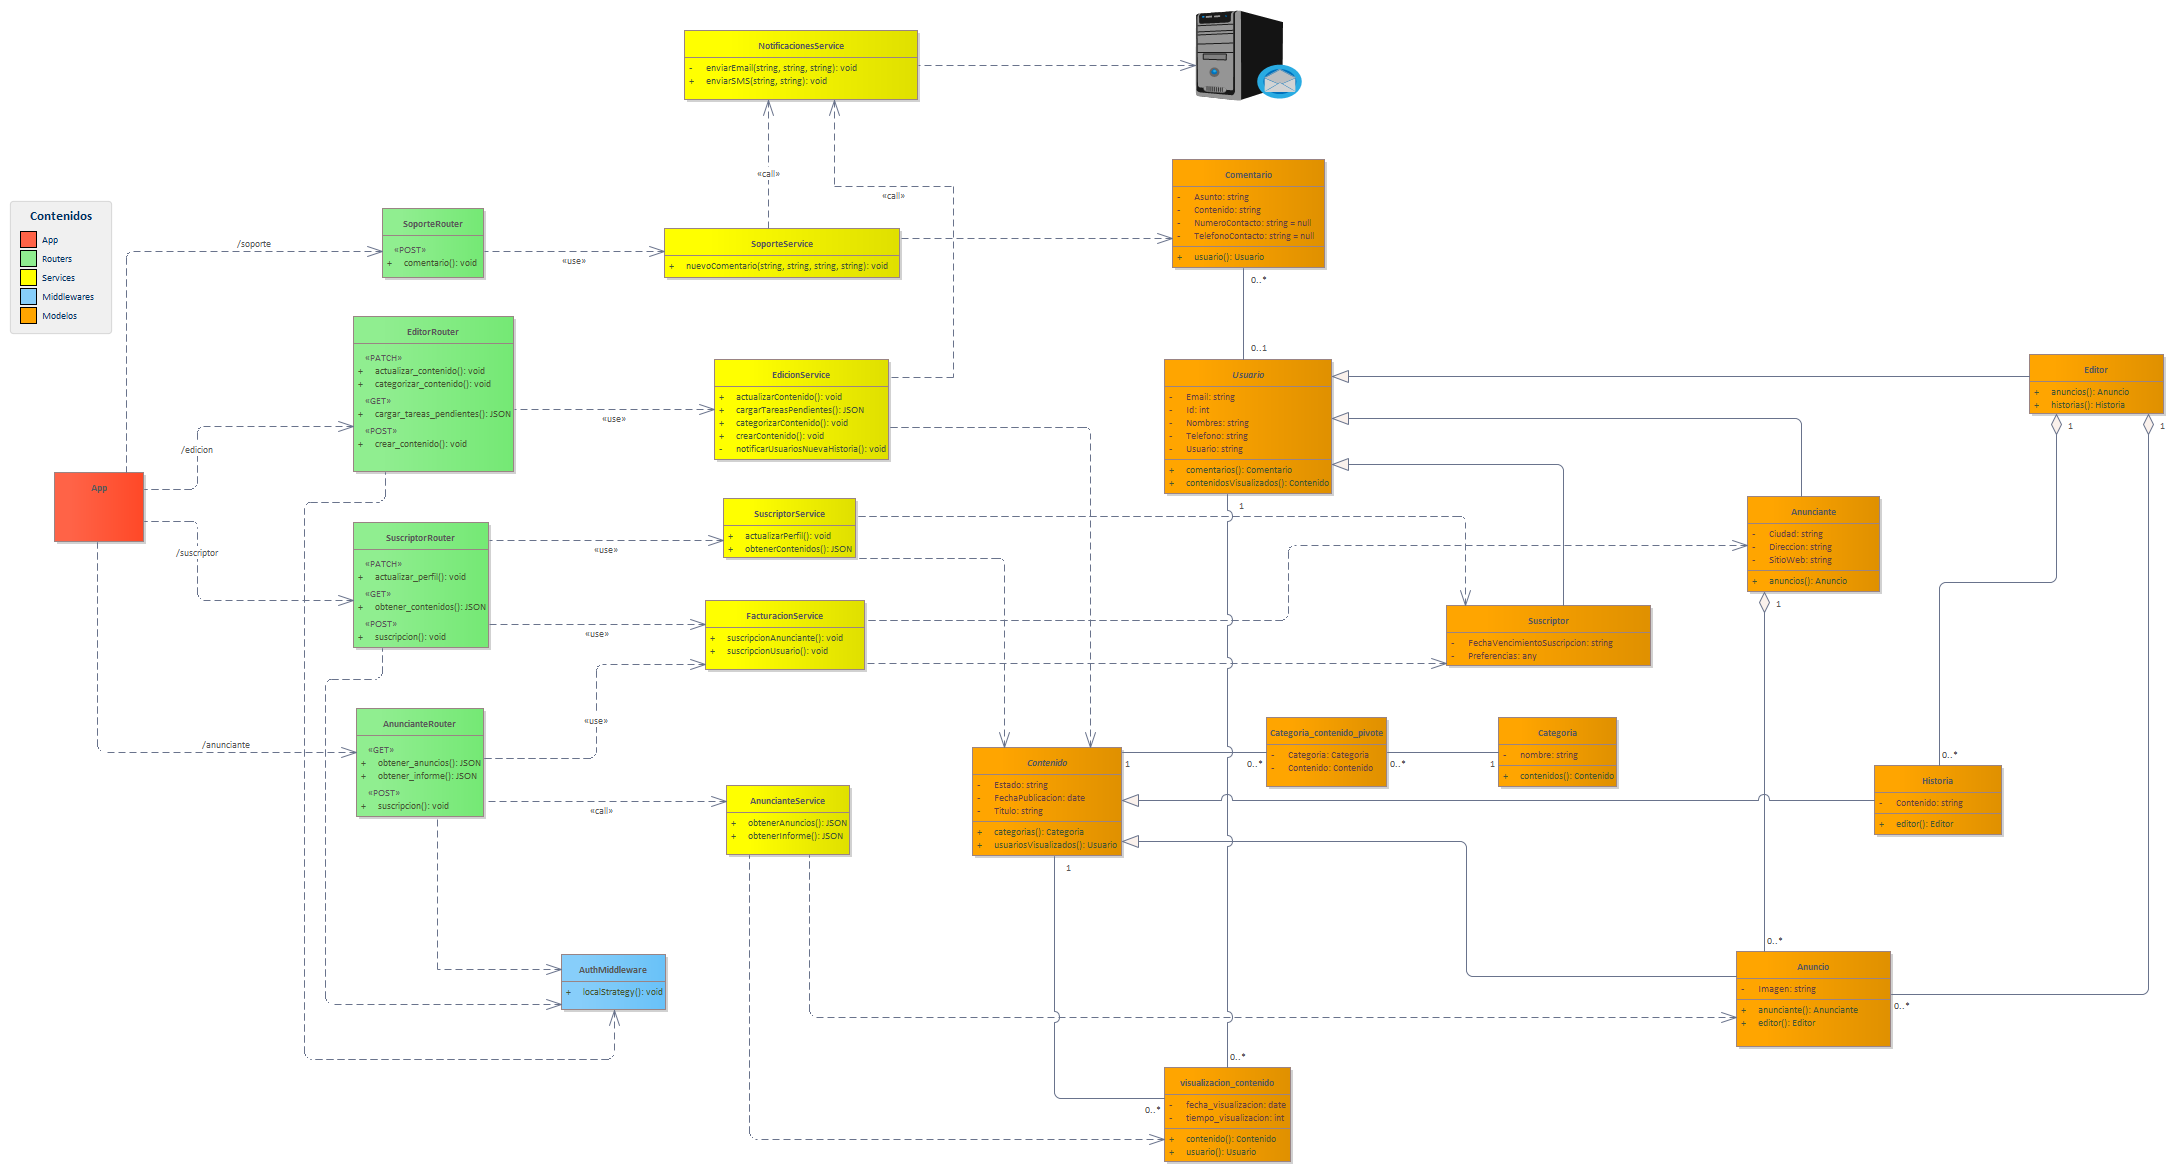
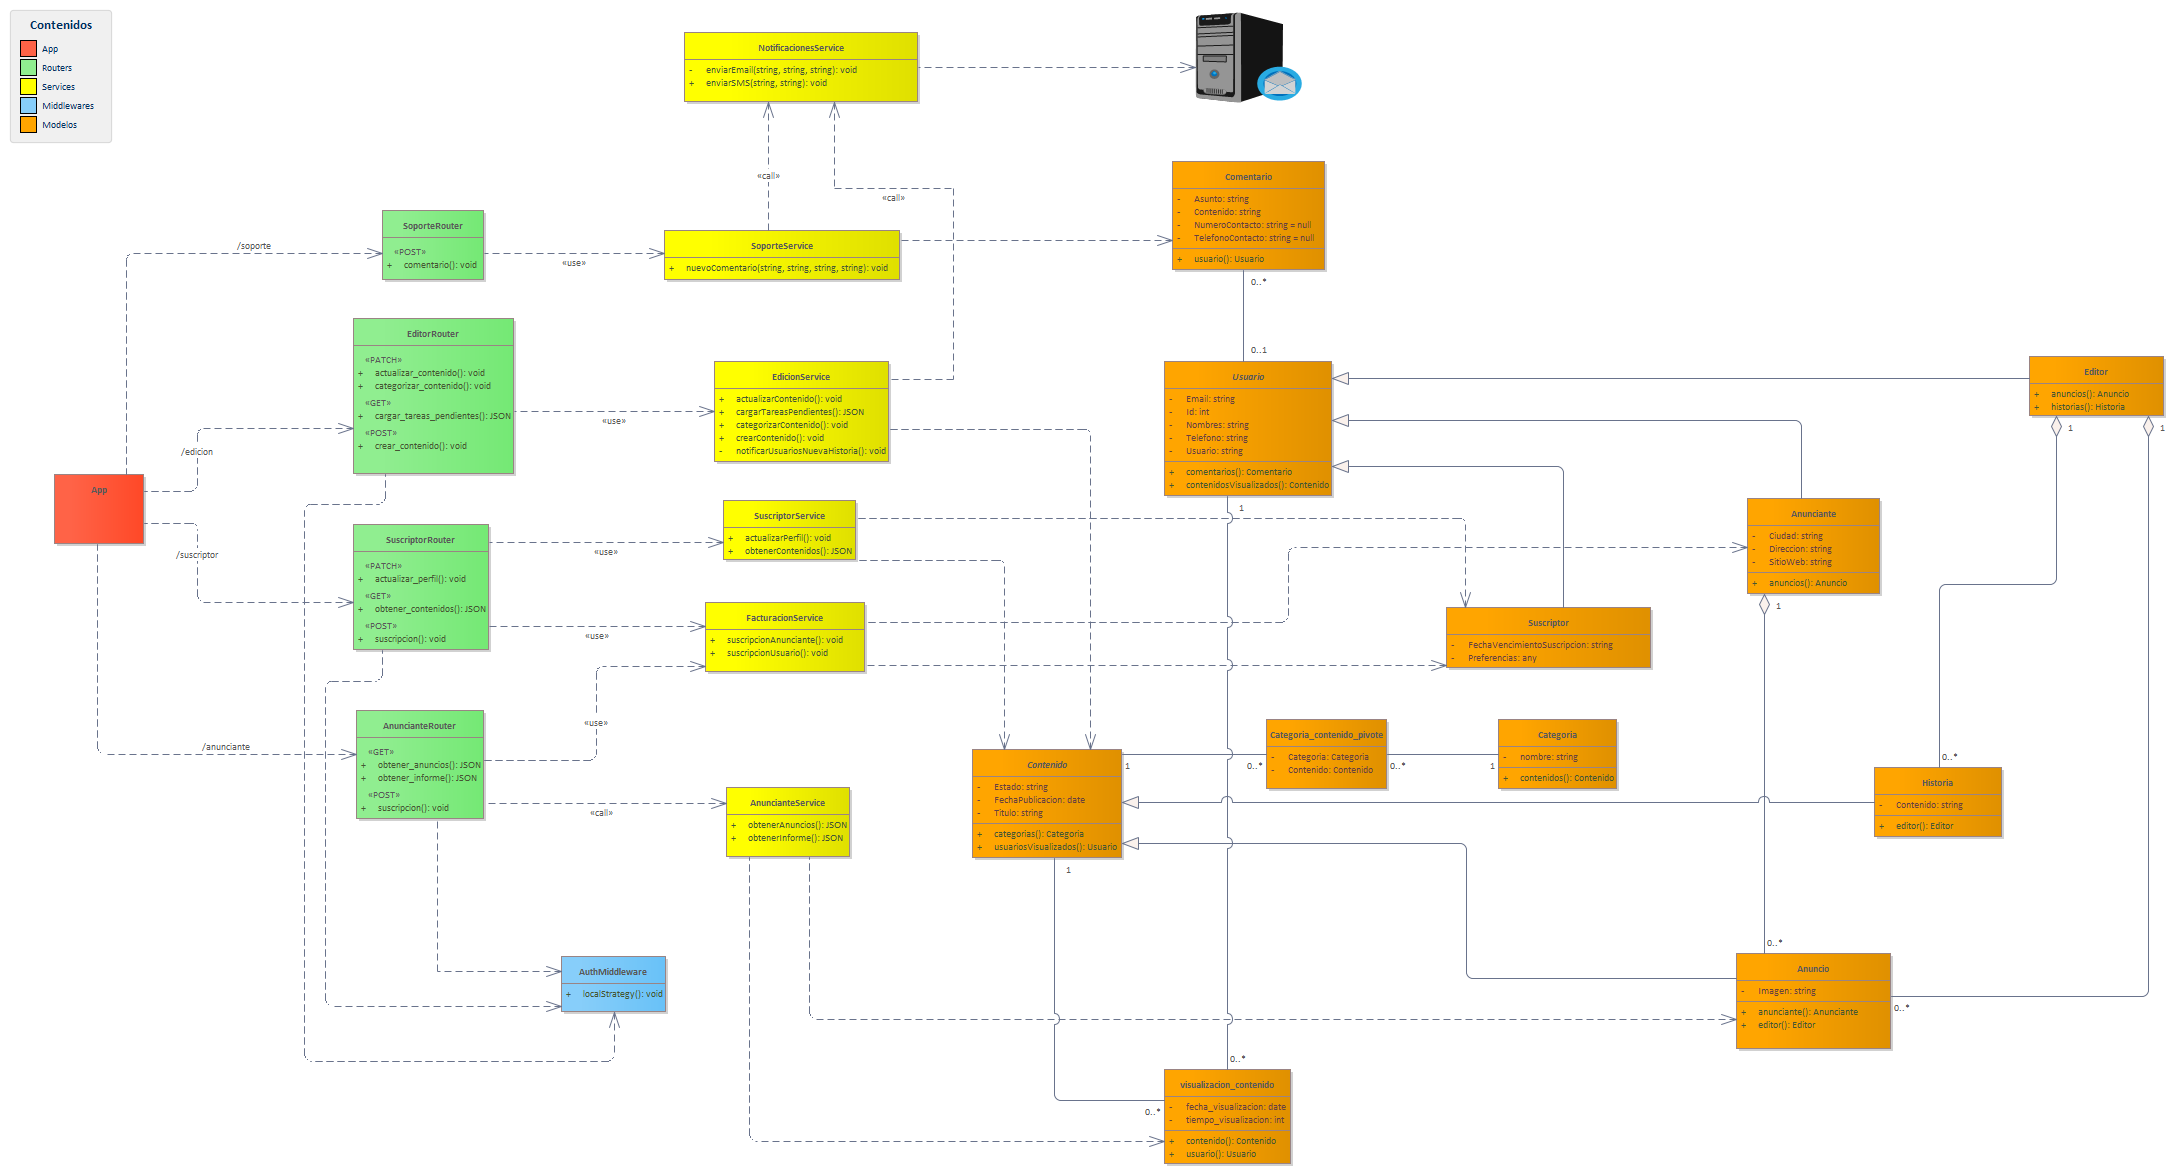
wip

diff --git a/EARoot/EA3/EA1/EA1/EA88.html b/EARoot/EA3/EA1/EA1/EA88.html
@@ -36,31 +36,31 @@ function nameClassifier(name, separator)
 <img src="EA89.png" usemap="#EA89" border="0" />
 
 <MAP NAME="EA89">
-<area shape="rect" coords="684,30,918,100" href="./EA4/EA132.html" target="_self">
-<area shape="rect" coords="1266,717,1387,787" href="./EA2/EA107.html" target="_self">
-<area shape="rect" coords="1498,717,1617,787" href="./EA2/EA106.html" target="_self">
-<area shape="rect" coords="10,201,112,334" href="EA92.html" target="_self">
-<area shape="rect" coords="382,208,484,278" href="./EA3/EA123.html" target="_self">
-<area shape="rect" coords="705,600,865,670" href="./EA4/EA131.html" target="_self">
-<area shape="rect" coords="561,954,666,1010" href="./EA1/EA101.html" target="_self">
-<area shape="rect" coords="664,228,900,278" href="./EA4/EA133.html" target="_self">
-<area shape="rect" coords="1164,1067,1291,1162" href="./EA2/EA108.html" target="_self">
-<area shape="rect" coords="1736,951,1891,1047" href="./EA2/EA111.html" target="_self">
-<area shape="rect" coords="1172,159,1325,268" href="./EA2/EA112.html" target="_self">
-<area shape="rect" coords="972,747,1122,856" href="./EA2/EA113.html" target="_self">
-<area shape="rect" coords="2029,354,2164,414" href="./EA2/EA114.html" target="_self">
-<area shape="rect" coords="1874,765,2002,835" href="./EA2/EA115.html" target="_self">
-<area shape="rect" coords="1446,605,1651,666" href="./EA2/EA116.html" target="_self">
-<area shape="rect" coords="1164,359,1332,494" href="./EA2/EA117.html" target="_self">
-<area shape="rect" coords="1747,496,1880,592" href="./EA2/EA110.html" target="_self">
-<area shape="rect" coords="726,785,850,855" href="./EA4/EA129.html" target="_self">
-<area shape="rect" coords="723,498,856,558" href="./EA4/EA134.html" target="_self">
-<area shape="rect" coords="714,359,889,460" href="./EA4/EA130.html" target="_self">
-<area shape="rect" coords="356,708,484,817" href="./EA3/EA121.html" target="_self">
-<area shape="rect" coords="353,522,489,648" href="./EA3/EA124.html" target="_self">
-<area shape="rect" coords="353,316,514,472" href="./EA3/EA122.html" target="_self">
-<area shape="rect" coords="54,472,144,542" href="EA93.html" target="_self">
-<area shape="rect" coords="1195,10,1302,121" href="EA91.html" target="_self">
+<area shape="rect" coords="684,32,918,102" href="./EA4/EA132.html" target="_self">
+<area shape="rect" coords="1266,719,1387,789" href="./EA2/EA107.html" target="_self">
+<area shape="rect" coords="1498,719,1617,789" href="./EA2/EA106.html" target="_self">
+<area shape="rect" coords="10,10,112,143" href="EA92.html" target="_self">
+<area shape="rect" coords="382,210,484,280" href="./EA3/EA123.html" target="_self">
+<area shape="rect" coords="705,602,865,672" href="./EA4/EA131.html" target="_self">
+<area shape="rect" coords="561,956,666,1012" href="./EA1/EA101.html" target="_self">
+<area shape="rect" coords="664,230,900,280" href="./EA4/EA133.html" target="_self">
+<area shape="rect" coords="1164,1069,1291,1164" href="./EA2/EA108.html" target="_self">
+<area shape="rect" coords="1736,953,1891,1049" href="./EA2/EA111.html" target="_self">
+<area shape="rect" coords="1172,161,1325,270" href="./EA2/EA112.html" target="_self">
+<area shape="rect" coords="972,749,1122,858" href="./EA2/EA113.html" target="_self">
+<area shape="rect" coords="2029,356,2164,416" href="./EA2/EA114.html" target="_self">
+<area shape="rect" coords="1874,767,2002,837" href="./EA2/EA115.html" target="_self">
+<area shape="rect" coords="1446,607,1651,668" href="./EA2/EA116.html" target="_self">
+<area shape="rect" coords="1164,361,1332,496" href="./EA2/EA117.html" target="_self">
+<area shape="rect" coords="1747,498,1880,594" href="./EA2/EA110.html" target="_self">
+<area shape="rect" coords="726,787,850,857" href="./EA4/EA129.html" target="_self">
+<area shape="rect" coords="723,500,856,560" href="./EA4/EA134.html" target="_self">
+<area shape="rect" coords="714,361,889,462" href="./EA4/EA130.html" target="_self">
+<area shape="rect" coords="356,710,484,819" href="./EA3/EA121.html" target="_self">
+<area shape="rect" coords="353,524,489,650" href="./EA3/EA124.html" target="_self">
+<area shape="rect" coords="353,318,514,474" href="./EA3/EA122.html" target="_self">
+<area shape="rect" coords="54,474,144,544" href="EA93.html" target="_self">
+<area shape="rect" coords="1195,12,1302,123" href="EA91.html" target="_self">
 </MAP>
 
 	<div class="ObjectTitle">Backend - Diagrama general de clases : Class diagram</div>
@@ -71,7 +71,7 @@ function nameClassifier(name, separator)
 		</tr>
 		<tr>
 			<td width="15%" class="ObjectDetailsTopic">Modified:</td>
-			<td width="85%" class="ObjectDetailsValue">20/03/2021 8:09:03 p. m.</td>
+			<td width="85%" class="ObjectDetailsValue">20/03/2021 8:38:40 p. m.</td>
 		</tr>
 		<tr style="padding-top: 10px;">
 			<td width="15%" class="ObjectDetailsTopic"><img src="../../../../images/plus03.gif" align="absmiddle" id="proj" onclick="parent.toggleData(this.id)" />Project:</td>

diff --git a/index.html b/index.html
@@ -2,13 +2,13 @@
 <html xmlns="http://www.w3.org/1999/xhtml">
 <head>
 <meta http-equiv="Content-Type" content="text/html; charset=UTF-8" />
-<title>Taller 2: Diagramas de clase</title>
+<title>Taller 2: Diagramas de clases</title>
 <link href="css/ea.css" rel="stylesheet" type="text/css" />
 <script language="JavaScript" src="js/displayToc.js" type="text/javascript"></script>
 </head>
 <body onload="initLoad(this,'toc.html','./EARoot/EA1/EA1.html')" onresize="resizePage()">
 <div class="IndexTitle">
-	Taller 2: Diagramas de clase
+	Taller 2: Diagramas de clases
 </div>
 <div class="IndexHeader" id="IndexHeader">
 	<img src="images/logo-scs-key1106374.png" align="right" alt="Enterprise Architect" />

diff --git a/EARoot/EA3/EA1/EA2/EA3/EA172.html b/EARoot/EA3/EA1/EA2/EA3/EA172.html
@@ -2,7 +2,7 @@
 <html xmlns="http://www.w3.org/1999/xhtml">
 <head>
 <meta http-equiv="Content-Type" content="text/html; charset=UTF-8" />
-<title>Vistas::Información de buscapersonas</title>
+<title>Información de buscapersonas</title>
 <link href="../../../../../css/ea.css" rel="stylesheet" type="text/css" />
 <script>
 function initPage(src) {	

diff --git a/EARoot/EA3/EA1/EA2/EA3/EA177.html b/EARoot/EA3/EA1/EA2/EA3/EA177.html
@@ -2,7 +2,7 @@
 <html xmlns="http://www.w3.org/1999/xhtml">
 <head>
 <meta http-equiv="Content-Type" content="text/html; charset=UTF-8" />
-<title>Vistas::Pago con tarjeta de crédito</title>
+<title>Pago con tarjeta de crédito</title>
 <link href="../../../../../css/ea.css" rel="stylesheet" type="text/css" />
 <script>
 function initPage(src) {	

diff --git a/EARoot/EA3/EA1/EA1/EA2/EA107.html b/EARoot/EA3/EA1/EA1/EA2/EA107.html
@@ -2,7 +2,7 @@
 <html xmlns="http://www.w3.org/1999/xhtml">
 <head>
 <meta http-equiv="Content-Type" content="text/html; charset=UTF-8" />
-<title>Modelos::Categoria_contenido_pivote</title>
+<title>Categoria_contenido_pivote</title>
 <link href="../../../../../css/ea.css" rel="stylesheet" type="text/css" />
 <script>
 function initPage(src) {	

diff --git a/EARoot/EA3/EA1/EA2/EA3/EA182.html b/EARoot/EA3/EA1/EA2/EA3/EA182.html
@@ -2,7 +2,7 @@
 <html xmlns="http://www.w3.org/1999/xhtml">
 <head>
 <meta http-equiv="Content-Type" content="text/html; charset=UTF-8" />
-<title>Vistas::Proporcionar Comentarios</title>
+<title>Proporcionar Comentarios</title>
 <link href="../../../../../css/ea.css" rel="stylesheet" type="text/css" />
 <script>
 function initPage(src) {	

diff --git a/EARoot/EA3/EA1/EA1/EA2/EA108.html b/EARoot/EA3/EA1/EA1/EA2/EA108.html
@@ -2,7 +2,7 @@
 <html xmlns="http://www.w3.org/1999/xhtml">
 <head>
 <meta http-equiv="Content-Type" content="text/html; charset=UTF-8" />
-<title>Modelos::visualizacion_contenido</title>
+<title>visualizacion_contenido</title>
 <link href="../../../../../css/ea.css" rel="stylesheet" type="text/css" />
 <script>
 function initPage(src) {	

diff --git a/EARoot/EA3/EA1/EA1/EA4/EA132.html b/EARoot/EA3/EA1/EA1/EA4/EA132.html
@@ -2,7 +2,7 @@
 <html xmlns="http://www.w3.org/1999/xhtml">
 <head>
 <meta http-equiv="Content-Type" content="text/html; charset=UTF-8" />
-<title>Services::NotificacionesService</title>
+<title>NotificacionesService</title>
 <link href="../../../../../css/ea.css" rel="stylesheet" type="text/css" />
 <script>
 function initPage(src) {	

diff --git a/EARoot/EA3/EA1/EA2/EA3/EA171.html b/EARoot/EA3/EA1/EA2/EA3/EA171.html
@@ -2,7 +2,7 @@
 <html xmlns="http://www.w3.org/1999/xhtml">
 <head>
 <meta http-equiv="Content-Type" content="text/html; charset=UTF-8" />
-<title>Vistas::Frecuencias y Precios</title>
+<title>Frecuencias y Precios</title>
 <link href="../../../../../css/ea.css" rel="stylesheet" type="text/css" />
 <script>
 function initPage(src) {	

diff --git a/EARoot/EA3/EA1/EA2/EA3/EA174.html b/EARoot/EA3/EA1/EA2/EA3/EA174.html
@@ -2,7 +2,7 @@
 <html xmlns="http://www.w3.org/1999/xhtml">
 <head>
 <meta http-equiv="Content-Type" content="text/html; charset=UTF-8" />
-<title>Vistas::Listar Publicaciones</title>
+<title>Listar Publicaciones</title>
 <link href="../../../../../css/ea.css" rel="stylesheet" type="text/css" />
 <script>
 function initPage(src) {	

diff --git a/EARoot/EA3/EA1/EA1/EA4/EA131.html b/EARoot/EA3/EA1/EA1/EA4/EA131.html
@@ -2,7 +2,7 @@
 <html xmlns="http://www.w3.org/1999/xhtml">
 <head>
 <meta http-equiv="Content-Type" content="text/html; charset=UTF-8" />
-<title>Services::FacturacionService</title>
+<title>FacturacionService</title>
 <link href="../../../../../css/ea.css" rel="stylesheet" type="text/css" />
 <script>
 function initPage(src) {	

diff --git a/EARoot/EA3/EA1/EA2/EA2/EA164.html b/EARoot/EA3/EA1/EA2/EA2/EA164.html
@@ -2,7 +2,7 @@
 <html xmlns="http://www.w3.org/1999/xhtml">
 <head>
 <meta http-equiv="Content-Type" content="text/html; charset=UTF-8" />
-<title>Servicios::SuscriptorService</title>
+<title>SuscriptorService</title>
 <link href="../../../../../css/ea.css" rel="stylesheet" type="text/css" />
 <script>
 function initPage(src) {	
